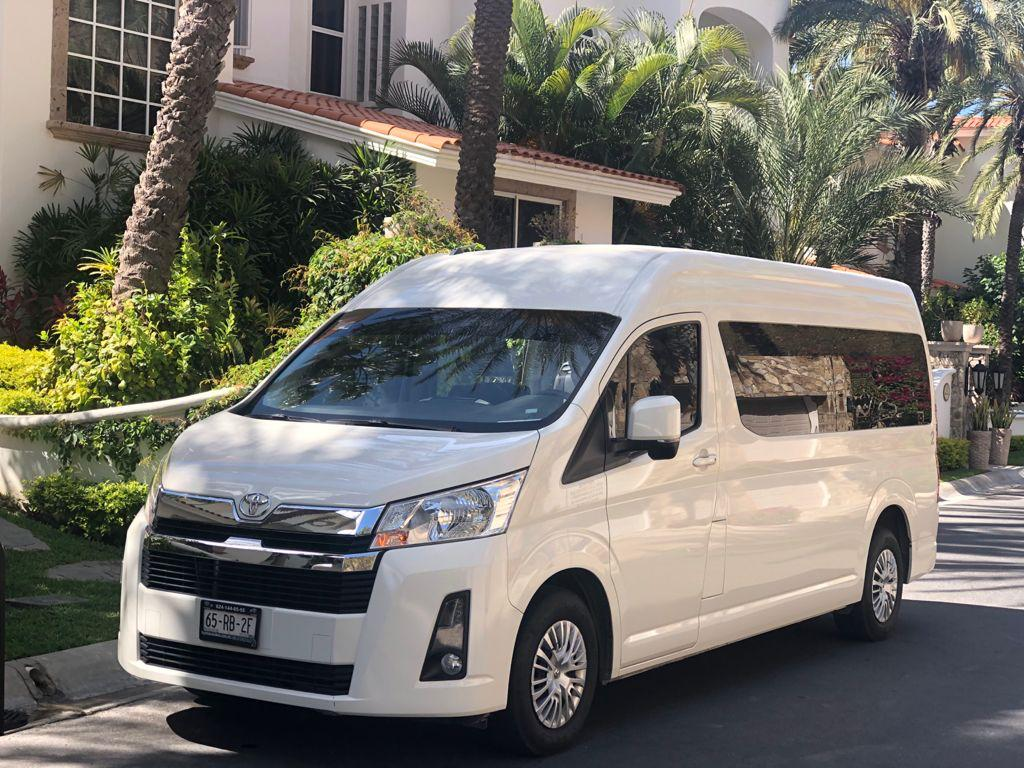
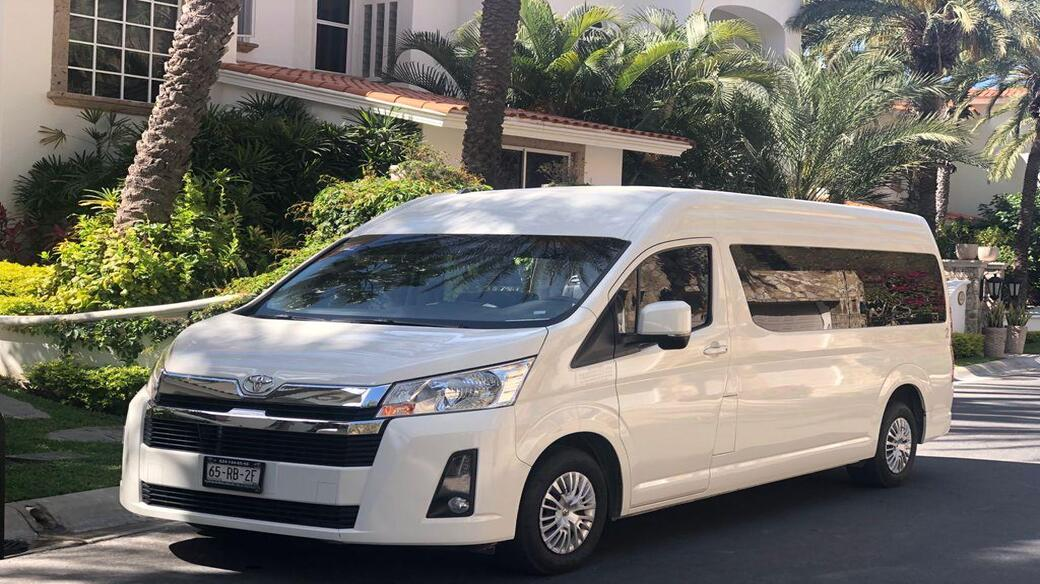
last

diff --git a/index.html b/index.html
@@ -82,13 +82,13 @@
                     </div>
                     <div class="carousel-inner">
                       <div class="carousel-item active">
-                        <img src="img/suburban_slide.jpg" class="d-block w-100" alt="...">
+                        <img src="img/suburban_slide.jpg" class="d-block w-100 h-80" alt="...">
                       </div>
                       <div class="carousel-item">
-                        <img src="img/van_card.jpg" class="d-block w-100" alt="...">
+                        <img src="img/van_card.jpg" class="d-block w-100 h-80" alt="...">
                       </div>
                       <div class="carousel-item">
-                        <img src="img/vw_card.jpg" class="d-block w-100" alt="...">
+                        <img src="img/vw_card.jpg" class="d-block w-100 h-80" alt="...">
                       </div>
                     </div>
                     <button class="carousel-control-prev" type="button" data-bs-target="#carouselExampleIndicators" data-bs-slide="prev">

diff --git a/css/main.css b/css/main.css
@@ -26,13 +26,7 @@
 }
 /*-------------------TRIP PRICES CARDS------------*/
 /*-------------------testimonials------------*/
-.slideImage{
-    background-image: url(../img/losCabos.jpg);
-    background-size: cover;
-    background-repeat: no-repeat;
-    height:35rem;
-    z-index: -2;
-}
+
 /*-------------------FOOTER------------*/
 .logoSize{
     width: 180px !important;
